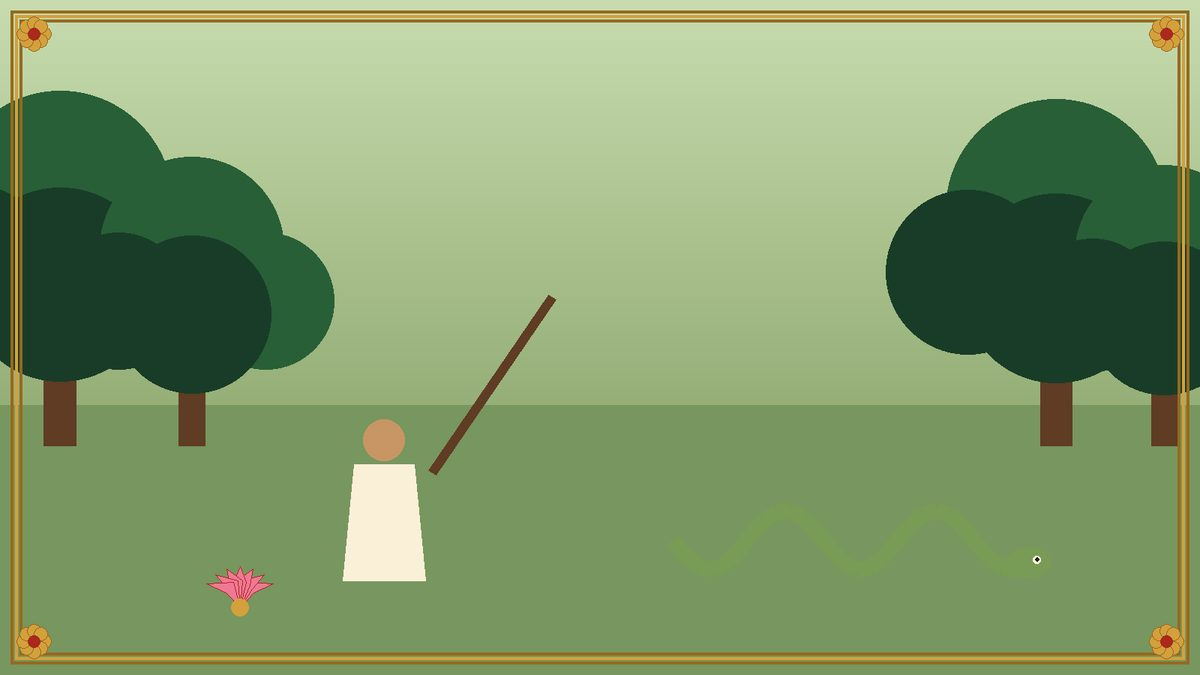
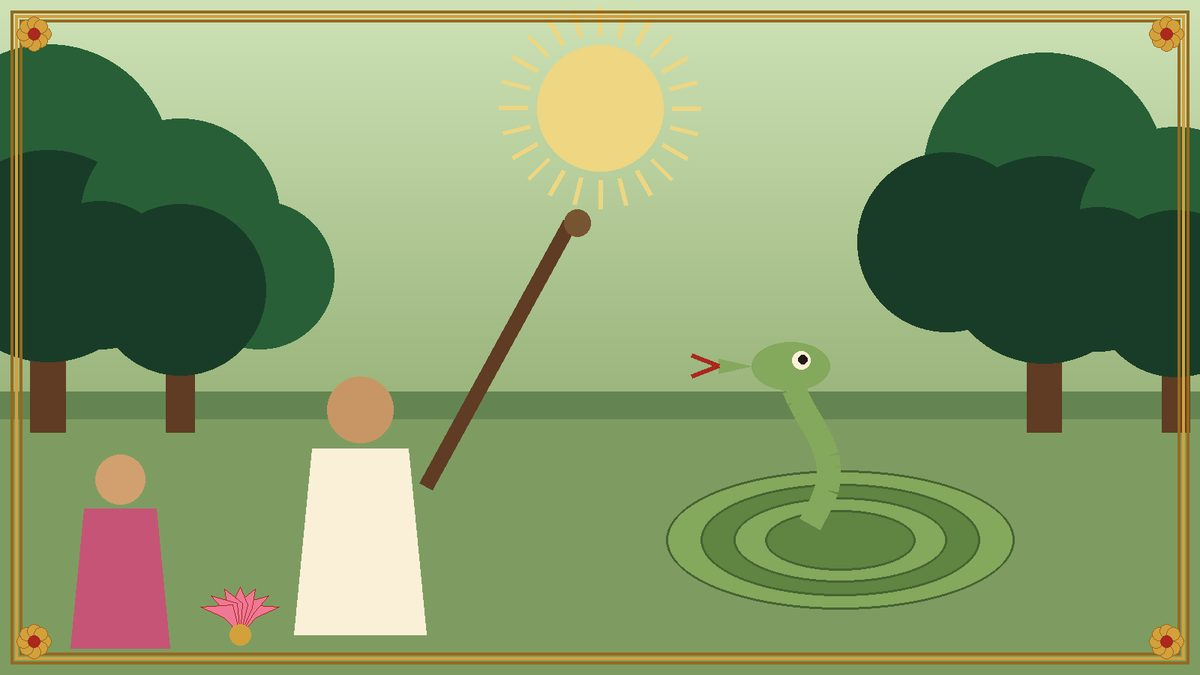
draw.py: strengthen the Ruru scene
The clearing read as mostly empty. Larger figures, Pramadvara present, and
the dundubha coiled with its head raised to meet Ruru at eye level — the
moment the story turns on. Solid coils drawn widest-first, and a single eye
now that the head is in profile.

diff --git a/draw.py b/draw.py
@@ -478,22 +478,35 @@ def pauloma():
 # 7. Ruru — the lifted stick, and the snake that spoke
 def ruru():
     img = Image.new("RGB", (W, H)); d = ImageDraw.Draw(img)
-    gradient(d, (200, 220, 175), (150, 175, 120), 0, int(H * 0.60))
-    d.rectangle([0, H * 0.60, W, H], fill=(120, 150, 95))
-    for x, hh in [(0.05, 430), (0.16, 350), (0.88, 420), (0.97, 340)]:
-        tree(d, W * x, H * 0.66, hh)
-    # Ruru, stick raised — then held
-    figure(d, W * 0.32, H * 0.86, 250, robe=CREAM, skin=(200, 150, 100))
-    d.line([(W * 0.36, H * 0.70), (W * 0.46, H * 0.44)], fill=BROWN, width=13)
-    # the dundubha, harmless, speaking
-    pts = [(W * (0.56 + i * 0.011), H * 0.80 + 40 * math.sin(i * 0.55)) for i in range(28)]
-    d.line(pts, fill=(120, 155, 85), width=22)
-    hx, hy = pts[-1]
-    d.ellipse([hx - 30, hy - 20, hx + 30, hy + 20], fill=(120, 155, 85))
-    d.ellipse([hx + 6, hy - 9, hx + 16, hy + 1], fill=CREAM)
-    d.ellipse([hx + 9, hy - 7, hx + 14, hy - 2], fill=INK)
-    # a small flower for Pramadvara, alive again
-    lotus(d, W * 0.20, H * 0.90, 34)
+    gradient(d, (206, 226, 182), (156, 182, 126), 0, int(H * 0.58))
+    sun(d, W * 0.50, H * 0.16, 84, (238, 214, 130))
+    d.rectangle([0, H * 0.58, W, H], fill=(126, 156, 98))
+    d.rectangle([0, H * 0.58, W, H * 0.62], fill=(100, 133, 82))
+    for x, hh in [(0.04, 470), (0.15, 380), (0.87, 460), (0.98, 370)]:
+        tree(d, W * x, H * 0.64, hh)
+    # Ruru, large, the stick raised and then held
+    figure(d, W * 0.30, H * 0.94, 400, robe=CREAM, skin=(200, 150, 100))
+    d.line([(W * 0.355, H * 0.72), (W * 0.475, H * 0.33)], fill=BROWN, width=20)
+    d.ellipse([W * 0.470, H * 0.31, W * 0.492, H * 0.35], fill=(120, 85, 50))
+    # the dundubha: coiled, head raised, meeting him at eye level
+    ccx, ccy = W * 0.70, H * 0.80
+    # coils, drawn widest-first so each sits in front of the one behind it
+    for k, rr in enumerate([232, 186, 142, 100]):
+        d.ellipse([ccx - rr, ccy - rr * 0.40, ccx + rr, ccy + rr * 0.40],
+                  fill=(96, 132, 66) if k % 2 else (132, 168, 92),
+                  outline=(70, 100, 50), width=3)
+    neck = [(ccx - 40 + 26 * math.sin(i * 0.34), ccy - 22 - i * 15) for i in range(15)]
+    d.line(neck, fill=(132, 168, 92), width=32)
+    hx, hy = neck[-1]
+    d.ellipse([hx - 52, hy - 32, hx + 52, hy + 32], fill=(132, 168, 92))
+    d.polygon([(hx - 52, hy), (hx - 96, hy - 10), (hx - 96, hy + 10)], fill=(132, 168, 92))
+    d.ellipse([hx + 2, hy - 20, hx + 26, hy + 4], fill=CREAM)      # one eye — head in profile
+    d.ellipse([hx + 10, hy - 15, hx + 22, hy - 3], fill=INK)
+    d.line([(hx - 96, hy), (hx - 132, hy - 14)], fill=RED, width=6)
+    d.line([(hx - 96, hy), (hx - 132, hy + 14)], fill=RED, width=6)
+    # Pramadvara, alive again, at the edge of the clearing
+    figure(d, W * 0.10, H * 0.96, 300, robe=(198, 84, 118), skin=(210, 160, 110))
+    lotus(d, W * 0.20, H * 0.94, 40)
     save(img, "07_ruru")
 
 
